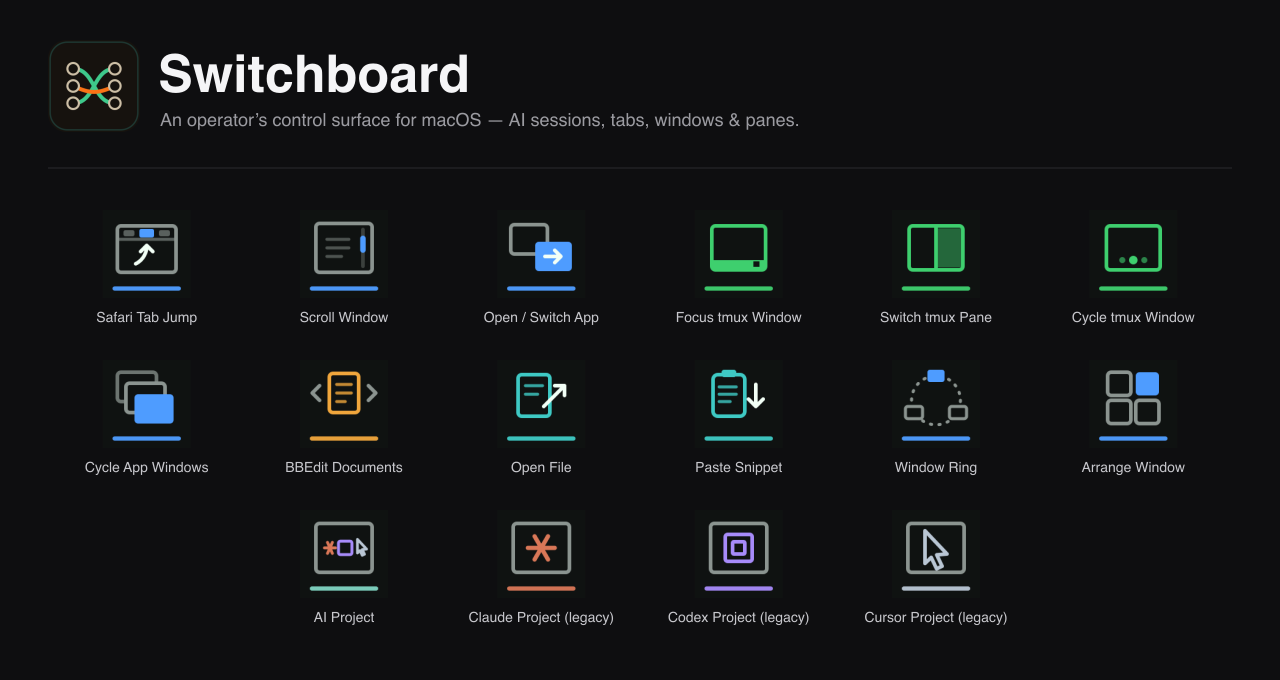
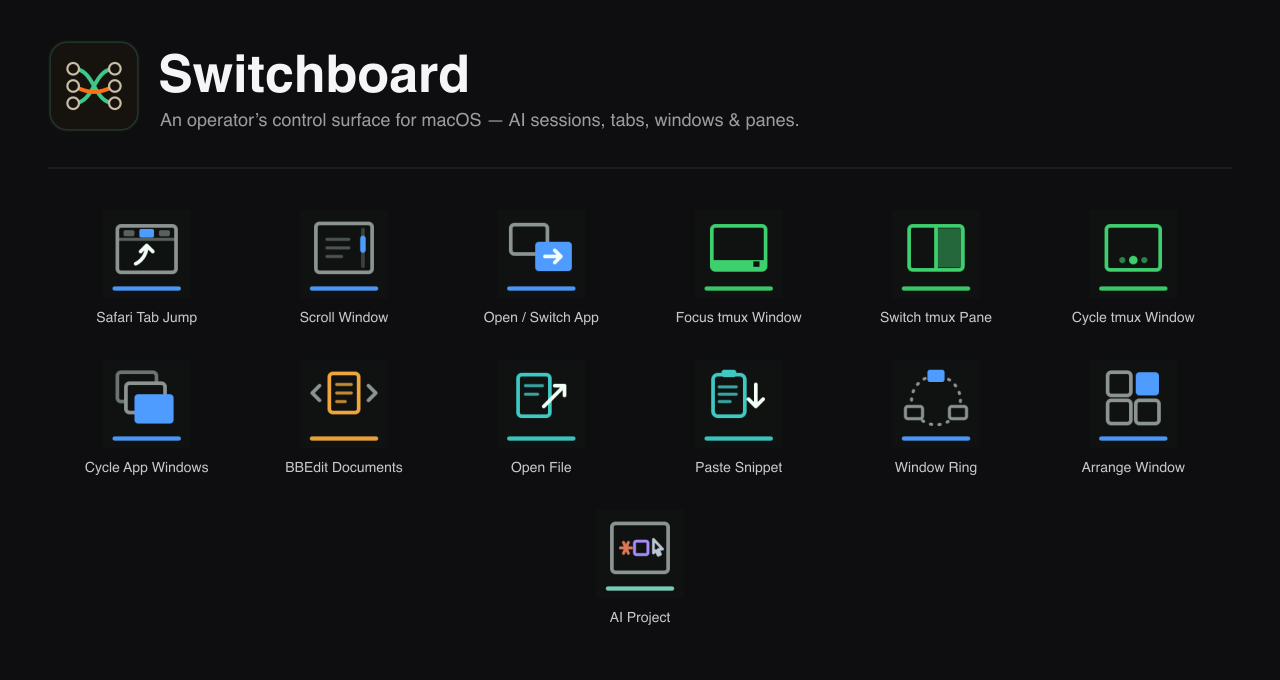
docs: record the retirement of the per-agent keys
README: the removal notice, an upgrade note in Install, thirteen actions,
eight non-multi-action actions, the Superseded block and the old colour
exception removed, and the test count. The Claude Project figure, which
showed the retired key in the old colours, is replaced by
docs/ai-project-keys.png, rendered by the new
scripts/make-ai-project-figure.py from the shipped
buildAgentProjectKeyImage. The hero is regenerated from the manifest.

CLAUDE.md: the retirement commitment becomes a record of what was removed
and what stayed, and the layout, counts, colour and figure notes follow.
TODO.md: the test-only exports to clean up and a migration script to
write only if a user asks; the window-index entry went with its key.

Claude-Session: https://claude.ai/code/session_011aGspemsVo7xLS25ThESEh

Changed region(s): [[0.375, 0.7412, 0.625, 0.9265], [0.6875, 0.7412, 0.7812, 0.9265], [0.2188, 0.7412, 0.3125, 0.9265]]

diff --git a/scripts/make-ai-project-figure.py b/scripts/make-ai-project-figure.py
@@ -1,0 +1,117 @@
+#!/usr/bin/env python3
+"""Regenerate docs/ai-project-keys.png, the README figure of the AI Project key.
+
+WHAT IT'S FOR: the figure has to be rendered FROM the real key-face builder
+(buildAgentProjectKeyImage in src/mac/agent-project.ts), not drawn by hand, or
+it quietly starts lying the moment the design changes. The figure it replaces
+showed the retired Claude Project key in a colour scheme the deck no longer
+uses, and nothing could regenerate it. This script shells out to the actual
+TypeScript builder for each key SVG, composes them with captions, and
+rasterises with inkscape (the same tool make-hero.py, make-icons.py and
+make-tmux-figure.py use).
+
+The cases show one face per meaning in the deck's colour language: blue =
+working, amber = waiting on you, white = idle, the red stripe = a finished
+turn you have not looked at, and the dashed bar = no agent running.
+
+Run it whenever buildAgentProjectKeyImage changes:
+    python3 scripts/make-ai-project-figure.py
+"""
+
+import json
+import pathlib
+import subprocess
+import tempfile
+
+ROOT = pathlib.Path(__file__).resolve().parent.parent
+OUT = ROOT / "docs" / "ai-project-keys.png"
+
+INK = "#0F0F0F"
+LABEL = "#C8C8C8"
+SUB = "#8A8A8A"
+MONO = "Menlo, Monaco, monospace"
+
+# (builder args, caption, sub-caption).
+CASES = [
+    (dict(kind="claude", project="/Users/me/code/movingavg", host="tmux", hot=True, state="working", spin=3),
+     "Claude working", "focused, under tmux"),
+    (dict(kind="codex", project="/Users/me/code/copybug", host="iterm", hot=False, state="blocked"),
+     "Codex waiting", "on your approval"),
+    (dict(kind="cursor", project="/Users/me/code/builder", host="tmux", hot=False, state="waiting"),
+     "Cursor idle", "at its prompt"),
+    (dict(kind="claude", project="/Users/me/code/passages", host="terminal", hot=False, state="waiting", unseen=True),
+     "Claude finished", "while you were away"),
+    (dict(kind="claude", project="/Users/me/code/metronome", host="", hot=False, state="none"),
+     "no agent", "running in the folder"),
+]
+
+KEY = 256
+GAP = 81
+PAD_X = 76
+PAD_TOP = 76
+CAP_GAP = 44
+LINE = 32
+
+
+def build_svgs(specs: list[dict]) -> list[str]:
+    """Key faces straight from the real builder — never redrawn here."""
+    snippet = ROOT / "sb-ai-figure-tmp.mts"
+    snippet.write_text(
+        'import { buildAgentProjectKeyImage } from "./src/mac/agent-project.js";\n'
+        f"const cases = {json.dumps(specs)};\n"
+        "process.stdout.write(JSON.stringify(cases.map((c: any) => buildAgentProjectKeyImage(c))));\n"
+    )
+    try:
+        raw = subprocess.run(
+            ["npx", "tsx", str(snippet)], cwd=ROOT, capture_output=True, text=True, check=True
+        ).stdout
+    finally:
+        snippet.unlink(missing_ok=True)
+    return json.loads(raw)
+
+
+def inner(svg: str) -> str:
+    """The body of a 72x72 key SVG, ready to nest inside the composite."""
+    return svg[svg.index(">", svg.index("<svg")) + 1 : svg.rindex("</svg>")]
+
+
+def main() -> None:
+    svgs = build_svgs([c for c, _, _ in CASES])
+    width = PAD_X * 2 + KEY * len(CASES) + GAP * (len(CASES) - 1)
+    height = PAD_TOP + KEY + CAP_GAP + LINE * 2
+    parts = [
+        f'<svg xmlns="http://www.w3.org/2000/svg" width="{width}" height="{height}" '
+        f'viewBox="0 0 {width} {height}">',
+        f'<rect width="{width}" height="{height}" fill="{INK}"/>',
+    ]
+    for i, (svg, (_, cap, sub)) in enumerate(zip(svgs, CASES)):
+        x = PAD_X + i * (KEY + GAP)
+        parts.append(
+            f'<svg x="{x}" y="{PAD_TOP}" width="{KEY}" height="{KEY}" viewBox="0 0 72 72">'
+            f"{inner(svg)}</svg>"
+        )
+        cx = x + KEY / 2
+        ty = PAD_TOP + KEY + CAP_GAP
+        parts.append(
+            f'<text x="{cx}" y="{ty}" text-anchor="middle" font-family="{MONO}" '
+            f'font-size="21" fill="{LABEL}">{cap}</text>'
+        )
+        parts.append(
+            f'<text x="{cx}" y="{ty + LINE}" text-anchor="middle" font-family="{MONO}" '
+            f'font-size="19" fill="{SUB}">{sub}</text>'
+        )
+    parts.append("</svg>")
+
+    with tempfile.NamedTemporaryFile("w", suffix=".svg", delete=False) as fh:
+        fh.write("".join(parts))
+        tmp = fh.name
+    subprocess.run(
+        ["inkscape", "-w", str(width), "-h", str(height), tmp, "-o", str(OUT)],
+        check=True, capture_output=True,
+    )
+    pathlib.Path(tmp).unlink(missing_ok=True)
+    print(f"wrote {OUT} ({len(CASES)} keys, {width}x{height})")
+
+
+if __name__ == "__main__":
+    main()

diff --git a/README.md b/README.md
@@ -6,7 +6,7 @@
 
 Ever lose a beat hunting for the right tab or window? Tactile switches beat hunting-and-clicking. Switchboard is a **macOS Stream Deck plugin** for fast context-switching: keep an eye on your **Claude Code**, **Codex CLI**, and **Cursor CLI** projects from one key on the deck, see whether each needs you, and press to raise its exact terminal session. Jump to **Safari** tabs (with multi-account **Gmail**/**Calendar** presets), switch and cycle **app windows**, tile and ring **windows**, drive **tmux** windows and panes (raising the right **iTerm2** window as you go), move between **BBEdit** documents, and open files by wildcard pattern — all from Stream Deck keys and dials.
 
-**New:** a single **AI Project** key now follows a **Claude Code**, **Codex CLI**, or **Cursor CLI** session — hold it while the agent's terminal is frontmost and it works out which of the three it is. It replaces the three separate per-agent keys, which still work but are marked *(legacy)* and will be removed in a later release. See [what it does](#what-it-does) for how to move a key over.
+**New:** a single **AI Project** key now follows a **Claude Code**, **Codex CLI**, or **Cursor CLI** session — hold it while the agent's terminal is frontmost and it works out which of the three it is. It replaced the three separate per-agent keys (Claude Project, Codex Project, Cursor Project), which **v2.0.0 removed**. A key still set to one of them has no action behind it: add an AI Project key, hold it for ½ second while that agent's terminal is frontmost, then delete the old key.
 
 **Cursor here means the terminal agent** — the `cursor-agent` command you run in iTerm2 or tmux. Switchboard does not drive the Cursor editor.
 
@@ -24,28 +24,12 @@ Read the full story in the flagship essay → [I Directed an AI to Ship Real Sof
 
 ## What it does
 
-Sixteen actions, grouped by what they route your attention to.
+Thirteen actions, grouped by what they route your attention to.
 
 **Coding agents**
 - **AI Project** *(key)* — one live face for a **Claude Code**, **Codex CLI**, or **Cursor CLI** (`cursor-agent`, the terminal agent — not the Cursor editor) session. Hold the key for ½ second while the agent's terminal is frontmost and it works out which of the three it is looking at, then takes on that agent's mark: a coral spark for Claude, a violet square for Codex, an arrow for Cursor. Blue with a moving dot means a turn is running, amber means the agent is waiting on *you*, white means the prompt is idle, gray means unknown or ambiguous. A **red stripe down the left edge is an unread mark**: the agent finished a turn while you were looking somewhere else. It clears when pressing the key successfully raises that session, or on the first check that finds you already there; a press that cannot raise the window shows an alert and leaves the mark alone — as does a press that is ignored because another focus key's raise is still in progress, since all of them take turns. The key samples every 2½ seconds, so a turn that starts and finishes inside one gap is never seen running and leaves no mark. Press to raise its terminal and exact tmux pane.
 
   *Amber is not equally available to all three.* Codex records "waiting for your approval" in its own session log, so it works in any terminal. Claude Code reports its own state through `claude agents --json` (checked against Claude Code 2.1.311), so amber for Claude works in tmux, iTerm2 and Terminal.app **for an interactive session the command lists with a recognised status, when Switchboard finds the `claude` binary in one of four places** — `/opt/homebrew/bin`, `/usr/local/bin`, `~/.claude/local` or `~/.local/bin` — and that build supports the command. Background sessions are not read from the listing. A Claude Code installed anywhere else, a call that fails, or a session the listing does not report falls back to reading the prompt on screen, which works for **tmux-hosted sessions only**; in that case a waiting Claude shows as blue elsewhere. Cursor writes nothing that distinguishes a waiting prompt from ordinary work, so it is screen-only and tmux-only. Claude's local slash commands such as `/login` no longer read as a running turn. The Claude fallback scrape covers a tool approval and a question awaiting your decision; its *plan*-approval coverage was inferred, never measured — see the limits below. Codex and Cursor bind to one exact session; Claude Code keys bind by project folder (the CLI now reports a session id, but keys do not use it yet), so two Claude sessions in one folder read as ambiguous rather than being guessed between.
-
-<details>
-<summary><b>Superseded:</b> the three per-agent keys (Claude Project, Codex Project, Cursor Project)</summary>
-
-These still work and are unchanged, but **AI Project replaces all three** and they will be removed in a future release. To move a key over: add an AI Project action, hold it for ½ second while that agent is frontmost to capture the session, then delete the old key. Their settings screens carry the same note.
-
-**Claude Code**
-- **Claude Project** *(key)* — a live face for a Claude Code project, wherever it runs (tmux, plain iTerm2, or Terminal.app): the spark shows working (amber, turning) vs waiting for your input (white, still), the bar lights when your keystrokes would land in that session, and pressing raises the hosting window. Hold to capture the frontmost session's project.
-
-**Codex CLI**
-- **Codex Project** *(key)* — a live face for an interactive Codex CLI session in tmux, plain iTerm2, or Terminal.app: blue means working, amber means blocked on your approval/input, white means ready, and gray means unknown or ambiguous. Press to raise its terminal and exact tmux pane; hold to capture the frontmost session.
-
-**Cursor CLI**
-- **Cursor Project** *(key)* — a live face for an interactive Cursor CLI (`cursor-agent`) session in tmux, plain iTerm2, or Terminal.app: blue means a turn is running, amber means Cursor is waiting for you to approve a command, white means the prompt is idle, and gray means unknown or ambiguous. Press to raise its terminal and exact tmux pane; hold to capture the frontmost session. (Amber is tmux-only — see below.)
-
-</details>
 
 **Safari**
 - **Safari Tab Jump** *(key)* — jump to an open Safari tab, or open it if it isn't there yet. Built-in presets for multi-account Gmail and Google Calendar, plus custom sites and private-window targets. URL matching supports `*` wildcards. Hold the key to capture the current front tab into the button.
@@ -71,13 +55,13 @@ These still work and are unchanged, but **AI Project replaces all three** and th
 **Text**
 - **Paste Snippet** *(key)* — the button is the storage. Press writes the stored text into whatever app is frontmost; hold the key (~half a second) to read the current selection into the key instead of typing it into the settings screen. Holding reads the selection directly through macOS's Accessibility API where an app supports that (standard text fields do; iTerm2, Safari and ChatGPT do not) and falls back to ⌘C where it doesn't; pressing always uses ⌘V, because the direct write was measured reporting success while inserting nothing. So pressing always borrows your clipboard and holding usually does — and it **puts it back**: everything on it, every item and every format, is copied aside first and restored afterwards. Exceptions, stated rather than glossed: a clipboard a password manager marked secret is left alone rather than duplicated (so that gesture replaces it, as before); content another app generates on demand, and anything over 64 MiB, isn't saved either; if you copy something mid-gesture your newer copy almost always wins, though macOS offers no atomic swap so a copy landing inside the swap itself can be lost; holding can't prove the copy it sees came from its own ⌘C, so text another app copies in that instant can be stored and then overwritten; after ⌘V there is a short wait before the restore, because nothing reports when the target app has finished reading — an app slower than that wait pastes your old clipboard instead, which is why restoration is a per-key setting you can switch off; and rarely the clipboard can be emptied and the rewrite fail, which alerts on the key. Holding also refuses while macOS reports Secure Input is on, and refuses a copy marked concealed. The key face previews the stored text (tick a box for dots and a character count instead). The stored text is plain, unencrypted, and lives in the Stream Deck profile on this Mac.
 
-**Multi-actions.** Five actions can be steps in a Stream Deck multi-action: Safari Tab Jump, Open / Switch App, Focus tmux Window, Open File and Paste Snippet. The other eleven cannot. The six dials are encoders, and a multi-action takes keys only. A key step gets its press and release as one instant gesture, so hold-to-capture does not exist there, which rules out Window Ring (its members are added only by holding the key) and AI Project and the three superseded agent keys (bound by holding). A step's key face is never drawn, so a live face would be wasted.
+**Multi-actions.** Five actions can be steps in a Stream Deck multi-action: Safari Tab Jump, Open / Switch App, Focus tmux Window, Open File and Paste Snippet. The other eight cannot. The six dials are encoders, and a multi-action takes keys only. A key step gets its press and release as one instant gesture, so hold-to-capture does not exist there, which rules out Window Ring (its members are added only by holding the key) and AI Project (bound by holding). A step's key face is never drawn, so a live face would be wasted.
 
 ---
 
 ## Live on the deck
 
-The **Focus tmux Window** and **AI Project** keys render live (as do the three superseded per-agent keys). Each tmux key is a miniature tmux pane whose status bar lights up exactly when that target would receive your keystrokes; its spark shows whether a coding agent in that window is working. AI Project shows one agent session's own state, and both only observe and focus — they never drive the agent itself.
+The **Focus tmux Window** and **AI Project** keys render live. Each tmux key is a miniature tmux pane whose status bar lights up exactly when that target would receive your keystrokes; its spark shows whether a coding agent in that window is working. AI Project shows one agent session's own state, and both only observe and focus — they never drive the agent itself.
 
 The amber "waiting on you" state is not the same for all three agents. **Codex** records approval in its own session log, and **Claude Code** reports it through `claude agents --json` when Switchboard finds `claude` in one of the four searched locations, so amber works in any terminal for both — for Claude, only for interactive sessions the listing reports with a recognised status. **Cursor** writes nothing that distinguishes it from ordinary work, so it is read from the prompt on screen, which needs **tmux**; a Claude whose CLI report is unavailable falls back to the same screen scrape and the same tmux-only limit. The scrape matches deliberately narrow wording, so a release that rewords a prompt makes amber stop appearing rather than start lying — though recognised wording appearing in ordinary scrolled output can still, in principle, read as amber. Claude's *question* prompt is matched by three markers together rather than its wording; coverage of the *plan-approval* prompt is inferred from the same component being used, not measured.
 
@@ -85,11 +69,11 @@ Two limits on the Claude report itself. A parked mid-turn session can leave `sta
 
 ![Five states of a live tmux key: focused with Claude working, background with Claude working, background with Claude ready for input, background with no Claude, and a window that no longer exists](docs/tmux-live-keys.png)
 
-![Four states of a Claude Project key: focused under tmux with Claude working, focused under Terminal with Claude ready, a background project with Claude working, and a project with no Claude running](docs/claude-project-keys.png)
+![Five AI Project keys: Claude working in a focused tmux pane, Codex waiting on your approval, Cursor idle at its prompt, Claude finished while you were away with the red unread stripe, and a folder with no agent running](docs/ai-project-keys.png)
 
 <img src="docs/claude-spark.gif" width="120" alt="Animated key face: the blue spark turns while a coding agent works" />
 
-Across every key: **blue means working** (leave it alone), **amber means the agent is waiting on you** (go there now), **white means idle at the prompt**. Red is not a fourth state — it is the AI Project key's unread mark, a stripe layered over whichever state colour the key is already showing. The one exception is the superseded **Claude Project** key, which predates that scheme and still uses amber for *working* — one more reason to move it to AI Project. (Codex Project and Cursor Project already used blue/amber.)
+Across every key: **blue means working** (leave it alone), **amber means the agent is waiting on you** (go there now), **white means idle at the prompt**. Red is not a fourth state — it is the AI Project key's unread mark, a stripe layered over whichever state colour the key is already showing.
 
 The dial touchscreens speak the same color language — green drives tmux, blue drives macOS windows and apps, amber drives BBEdit — and the ⇄ mark appears exactly where a tap flips the dial's mode:
 
@@ -114,6 +98,10 @@ The dial touchscreens speak the same color language — green drives tmux, blue 
 Requires macOS 12+ and the Stream Deck app 7.1+ (the plugin runs on Node 24, which Stream Deck downloads on first launch; versions 6.5 to 7.0 are no longer supported; it has been checked live on 7.6 only, and 7.1 to 7.5 support rests on Elgato's manifest schema). Pick whichever fits you — in
 all cases, **quit and relaunch Stream Deck afterwards**, then add Switchboard's
 actions to your keys/dials.
+
+Upgrading from v1.6.0 or earlier removes the Claude Project, Codex Project and
+Cursor Project keys. Replace each with an **AI Project** key (hold it while that
+agent's terminal is frontmost).
 
 ### 1. Double-click installer (easiest — no Terminal)
 
@@ -196,7 +184,7 @@ Licensed under the **MIT License** — see [`LICENSE`](LICENSE).
 
 ## Built with
 
-Elgato Stream Deck SDK v2 · TypeScript / Node · 1103 passing tests · `streamdeck validate` runs in the build · native helpers are universal (Apple Silicon + Intel), Developer ID signed & notarized.
+Elgato Stream Deck SDK v2 · TypeScript / Node · 1084 passing tests · `streamdeck validate` runs in the build · native helpers are universal (Apple Silicon + Intel), Developer ID signed & notarized.
 
 ```bash
 npm install

diff --git a/CLAUDE.md b/CLAUDE.md
@@ -6,7 +6,7 @@ Built with the Elgato SDK v2 (TypeScript/Node). The plugin **UUID is
 Don't change it casually — installed buttons reference it, so a change orphans
 configured keys unless migrated. `scripts/rename.sh` performs such a migration
 (it rewrites the UUIDs in the Stream Deck profile store so settings survive); see
-that script before ever renaming again. Sixteen actions today (the manifest is the
+that script before ever renaming again. Thirteen actions today (the manifest is the
 source of truth — `scripts/make-hero.py` reads it).
 
 ## Layout
@@ -21,16 +21,14 @@ src/
   mac/                      # PURE, tested logic (no SDK, no I/O)
     targets/safari ...      # see files below
   safari/                   # Safari tab logic (targets.ts, applescript.ts, runner re-export)
-  mac/agent-*.ts            # AI Project (supersedes the three per-agent keys):
+  mac/agent-*.ts            # AI Project (replaced the three per-agent keys, removed in v2.0.0):
                             #   agent-project (one AgentKind/AgentState vocabulary,
                             #   per-kind approval-prompt matchers, decideAgentFace,
                             #   per-kind key face), agent-scan (ADAPTER over the three
                             #   existing scanners — never a fourth scanner)
-  mac/deprecation.ts        # the badge on the three superseded key faces; DELETE
-                            #   this whole file when those actions are retired
   mac/cursor-*.ts           # Cursor CLI detection: cursor-scan (pgrep -f the installed
                             #   versions path -> ps -o pid=,ppid=,tty=,args= -> lsof), cursor-project
-                            #   (identity + turn_ended state + approval-prompt scrape + key face)
+                            #   (identity + turn_ended state + approval-prompt scrape)
   mac/claude-*.ts           # Claude Code detection: claude-agents (PRIMARY state source:
                             #   `claude agents --json` parse + binary lookup in four fixed
                             #   places), claude-scan (ps→batched lsof + shell-snapshot busy
@@ -38,7 +36,7 @@ src/
                             #   merges the CLI report by pid), claude-state (title marker, now
                             #   a FALLBACK: static ✳ under tmux since 2.1.236; tmux pane-tty
                             #   map), claude-transcript (~/.claude/projects freshness, also
-                            #   fallback), claude-project (state decision + key face)
+                            #   fallback), claude-project (ps/lsof parsers + state decision)
   mac/blocked-probe.ts      # pure "is this agent waiting on you, and must the pane be read?"
                             #   (a Claude that reported itself is never scraped)
   mac/{coalesce,serialize,press-gate}.ts  # shared async plumbing (all unit-tested)
@@ -108,7 +106,7 @@ terminal.
 
 ```
 npm run typecheck     # tsc --noEmit
-npm test              # vitest (pure modules) — 1103 tests today
+npm test              # vitest (pure modules) — 1084 tests today
 npm run build         # rollup -> bin/plugin.js, then postbuild runs `streamdeck validate`
 npm run build:helper  # build all 3 Swift helpers UNIVERSAL (scripts/build-helpers.sh);
                       #   auto-signs with Developer ID if that cert is in the keychain
@@ -249,8 +247,7 @@ installed copy ships stale code. The `build` step is gated by `streamdeck valida
 - **ONE colour language across the keys: blue = working, amber = waiting on YOU,
   white = idle.** The tmux key's Claude spark was amber-for-working, which meant
   the opposite of amber on the agent keys — two states demanding opposite actions
-  sharing a colour on one deck. It is blue now. The two superseded per-agent keys
-  keep the old scheme and die with it; don't "fix" them. RED is not a fourth
+  sharing a colour on one deck. It is blue now. RED is not a fourth
   state: it is AI Project's unread stripe, a LAYER over whatever state colour
   the key already shows (`UNREAD_RED` in `agent-project.ts`). The operator asked
   for a full red ground and was talked into the stripe, because red-as-ground
@@ -258,8 +255,9 @@ installed copy ships stale code. The `build` step is gated by `streamdeck valida
   urgent than "finished". Don't promote red to a state.
 - **README figures are code-generated.** docs/tmux-live-keys.png and claude-spark.gif now
   regenerate together via `python3 scripts/make-tmux-figure.py` (tsx -> the REAL
-  buildTmuxKeyImage -> inkscape -> magick); claude-project-keys.png and
-  dial-strips.png are still ad-hoc. Regenerate whenever a key face changes, or the
+  buildTmuxKeyImage -> inkscape -> magick), and docs/ai-project-keys.png via
+  `python3 scripts/make-ai-project-figure.py` (the REAL buildAgentProjectKeyImage).
+  dial-strips.png is still ad-hoc. Regenerate whenever a key face changes, or the
   README silently lies — the spark figures did exactly that until the recolour.
 - **Cursor CLI (`cursor-agent`) breaks three assumptions Codex taught us.** All
   measured against 2026.08.11-e8db854, all of them cost time here:
@@ -343,18 +341,23 @@ installed copy ships stale code. The `build` step is gated by `streamdeck valida
   (both authoritative, any terminal); Cursor and an unlisted Claude only ever show
   it on screen (tmux-only scrape). `blockedEvidenceFor(kind, host, reported)`
   encodes exactly that, and the docs must not imply one uniform guarantee.
-- **RETIREMENT COMMITMENT (do not lose this).** Claude/Codex/Cursor Project are
-  superseded by AI Project and are kept ONLY so nobody's configured key is
-  orphaned without a release of warning. A future release must delete: the three
-  actions + their manifest entries, `src/mac/deprecation.ts` and its three call
-  sites, `ui/lib/deprecated.js`, the three PIs, and the three legacy key-face
-  BUILDERS (`build{Claude,Codex,Cursor}ProjectKeyImage`) only. The MODULES
-  themselves stay: `claude-scan`/`codex-scan`/`cursor-scan` do the detection AI
-  Project relies on, `claude-agents` supplies the CLI report they all use,
-  `claude-project` still supplies `projectClaudeState` and the
-  ps/lsof parsers, and `codex-project` still supplies `normalizeProjectPath` and
+- **RETIRED in v2.0.0: Claude/Codex/Cursor Project.** AI Project replaced
+  them; v1.5.0 and v1.6.0 marked them *(legacy)*. The removal deleted the three
+  actions and manifest entries, `src/mac/deprecation.ts`, `ui/lib/deprecated.js`,
+  the three PIs, their icon dirs, and the three key-face builders
+  (`build{Claude,Codex,Cursor}ProjectKeyImage`). The MODULES stayed:
+  `claude-scan`/`codex-scan`/`cursor-scan` do the detection AI Project relies
+  on, `claude-agents` supplies the CLI report, `claude-project` supplies
+  `claudeVerdict` (agent-scan) and the ps/lsof parsers (claude-scan), and
+  `codex-project` supplies `normalizeProjectPath` (every agent module) and
   `parseLsofEntries`. Deleting a whole file because its NAME matches a retired
-  action would break the unified key — check the imports first.
+  action would break the unified key — check the imports first. Several
+  exports lost their last production caller with the keys and are now
+  test-only (`projectClaudeState`, `instancesForProject`, the Codex and Cursor
+  pane helpers, `decideCursorFace`, `invalidateCursorScan` and more); each
+  module header lists its own, and TODO.md tracks the cleanup.
+  `tests/action-registry.test.ts` checks that `plugin.ts` registers exactly the
+  manifest's actions, so a half-done removal fails the suite.
 - **Named pasteboards CANNOT be enumerated**, which decides the clipboard
   stash's design. A per-gesture unique name is unrecoverable if the plugin dies
   mid-gesture: that stash then holds a copy of the operator's clipboard until
@@ -476,8 +479,7 @@ installed copy ships stale code. The `build` step is gated by `streamdeck valida
   as one gesture, so `PressGate` never fires and hold-to-capture does not exist.
   The step's face is never drawn. `SupportedInMultiActions` is `true` for Safari
   Tab Jump, Open / Switch App, Focus tmux Window, Open File and Paste Snippet,
-  and `false` for the other eleven (six dials, Window Ring, AI Project, the three
-  legacy agent keys). Live check (`multi-action-live`) passed on 2026-10-08:
+  and `false` for the other eight (six dials, Window Ring, AI Project). Live check (`multi-action-live`) passed on 2026-10-08:
   the multi-action picker listed exactly those five.
 - **sdpi-components is bundled** in `ui/lib/sdpi-components.js` (v4.0.1, MIT, with
   Lit under BSD 3-Clause) and the notices ship in `ui/lib/THIRD-PARTY-LICENSES.md`.

diff --git a/TODO.md b/TODO.md
@@ -48,8 +48,9 @@ plugin is shippable as-is.
 - [ ] **Upgrade `@elgato/streamdeck` 1.4.1 to 3.x.** Touch points: `streamDeck.ui.current`
       (`pi-permissions.ts`, `focus-tmux.ts`), `onDidReceiveSettings` overrides
       (`open-file.ts`, `paste-snippet.ts`), mandatory settings generics on
-      `DialAction`/`KeyAction`, and the tsconfig move to NodeNext. Best done with
-      the retirement of the three legacy actions.
+      `DialAction`/`KeyAction`, and the tsconfig move to NodeNext. The three
+      legacy actions it was to be paired with were retired in v2.0.0, so it now
+      stands alone.
 - [ ] Skip the poll timer for `isInMultiAction` instances of Focus tmux, Open File
       and Paste Snippet (their face is never drawn there).
 
@@ -68,11 +69,22 @@ plugin is shippable as-is.
       2026-10-08 (2 critical), all development-scope: tinypool, fast-uri,
       source-map-js, brace-expansion, vitest/@vitest/mocker. None is in the
       shipped bundle (runtime deps: @elgato/streamdeck, @elgato/schemas, ws).
-- [ ] **Claude Project switches tmux by window index** (`claude-project.ts`
-      passes `pane.windowIndex`), so under `renumber-windows` a lower window
-      closing mid-press can select the wrong window. Focus tmux and AI Project
-      switch by id. Left alone because Claude Project is due for deletion
-      (see the retirement commitment in CLAUDE.md); fix only if that slips.
+- [ ] **Delete the exports the v2.0.0 retirement left test-only.** With the
+      Claude/Codex/Cursor Project keys gone, these have no production caller:
+      `claude-project.ts` `projectClaudeState`, `instancesForProject`,
+      `projectBasename`; `codex-project.ts` `codexInstancesForProject`,
+      `selectCodexInstance`, `LIST_CODEX_PANES_ARGS`, `parseCodexPanes`,
+      `codexTmuxFocusArgs`; `cursor-project.ts` `cursorInstancesForProject`,
+      `selectCursorInstance`, `decideCursorFace`, `paneForTty`,
+      `paneShowsApprovalPrompt`, `capturePaneArgs` and its five re-exports;
+      `cursor-scan.ts` `invalidateCursorScan`. Delete them with their tests,
+      checking importers first (each module header lists its own).
+- [ ] **A migration script for retired keys, only if a user asks.** v2.0.0
+      documents the removal instead. A rewrite of the profile store would swap
+      the action UUID for `aiproject` AND insert `agent` (`claude`/`codex`/
+      `cursor`); a bare UUID swap leaves a dead gray key (`ai-project.ts`
+      reads `settings.agent`). It must run with Stream Deck quit and back up
+      `ProfilesV3` first, like `scripts/rename.sh`.
 - [ ] **Rate-limit dial failure logging.** A dial logs one line per detent:
       on 2026-10-05, one spin of Scroll with Accessibility revoked wrote 12
       identical "Scroll Window blocked" ERROR lines in 3 s (and BBEdit wrote 5
